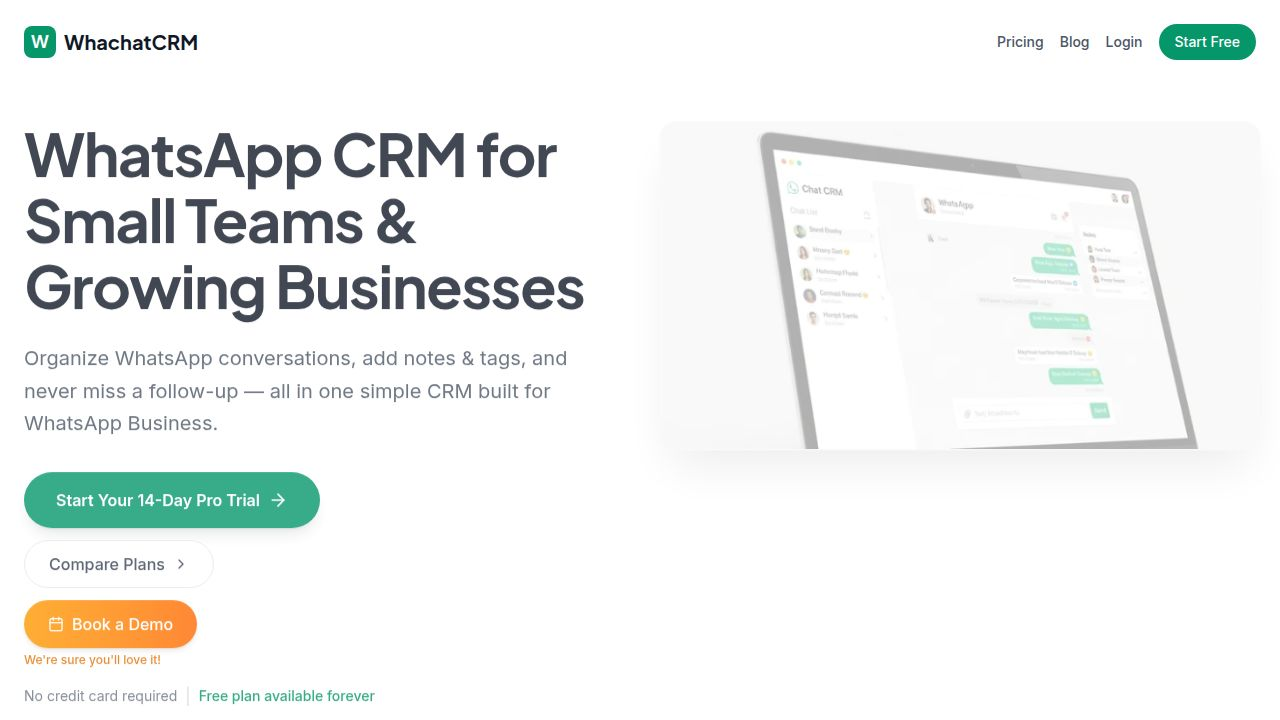
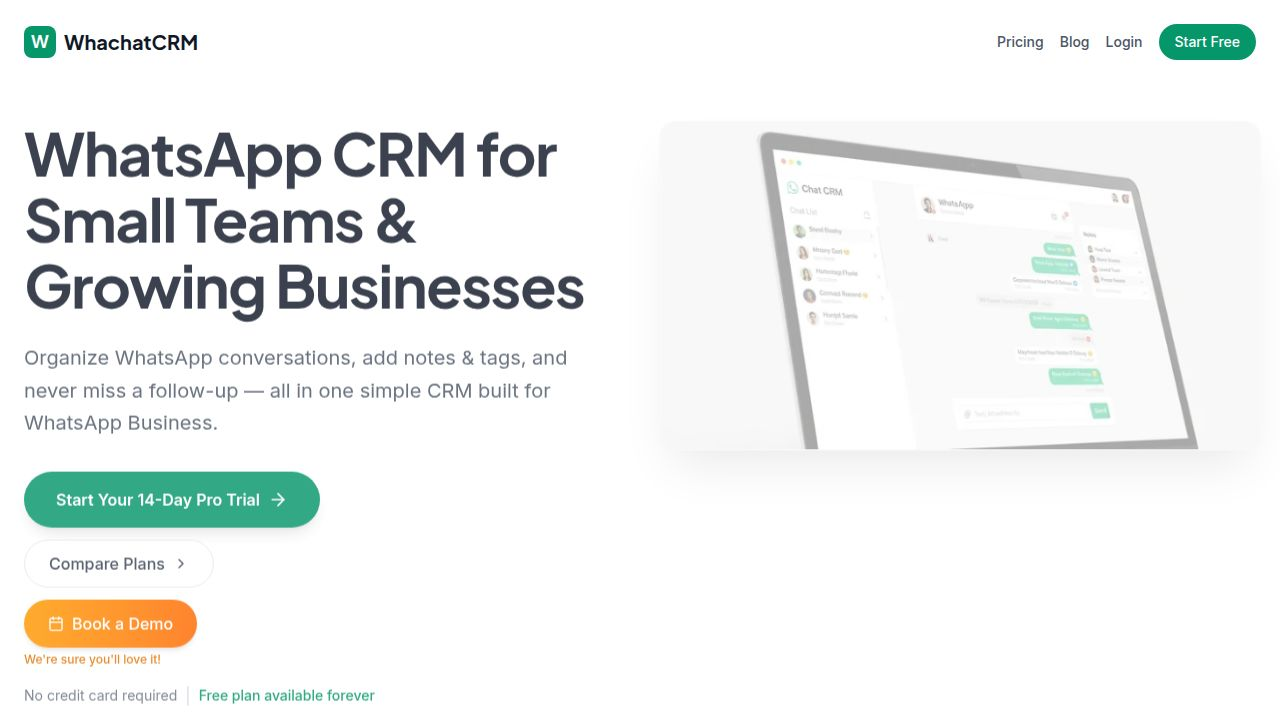
Update website pages to reflect multi-channel capabilities
Updates the home, pricing, and help center pages to highlight multi-channel support across WhatsApp, SMS, Telegram, Instagram, Facebook, and Web Chat. Includes SEO meta tag adjustments and feature list enhancements across client-side components.

Replit-Commit-Author: Agent
Replit-Commit-Session-Id: b0c210df-0aa9-4cdf-b0a9-ce0103a61da6
Replit-Commit-Checkpoint-Type: full_checkpoint
Replit-Commit-Event-Id: 7b04a395-dcc3-4f79-988b-310d60439050
Replit-Commit-Screenshot-Url: https://storage.googleapis.com/screenshot-production-us-central1/1e9f0bc4-b7c0-427b-a82e-2d37b78d433c/b0c210df-0aa9-4cdf-b0a9-ce0103a61da6/vHtLvfY
Replit-Helium-Checkpoint-Created: true

diff --git a/client/src/pages/Pricing.tsx b/client/src/pages/Pricing.tsx
@@ -13,14 +13,15 @@ const PLANS = [
     name: "Free",
     badge: "Forever Free",
     price: 0,
-    description: "Try WhachatCRM with real workflows",
+    description: "Try unified inbox with real workflows",
     cta: "Start Free",
     popular: false,
     features: [
-      "1 WhatsApp Business number",
+      "Unified inbox (all channels)",
+      "WhatsApp + Web Chat",
       "1 user",
       "50 active conversations / month",
-      "Shared inbox (read-only)",
+      "Auto channel routing",
       "Tags & internal notes",
       "Tasks & reminders",
       "Away messages (business hours)",
@@ -39,18 +40,18 @@ const PLANS = [
     popular: true,
     features: [
       "Everything in Free, plus:",
+      "All channels: WhatsApp, SMS, Telegram, Instagram, Facebook, Web Chat",
+      "TikTok lead intake",
       "Up to 3 team members",
-      "1 WhatsApp Business number",
       "500 active conversations / month",
-      "Shared team inbox",
       "Visual chatbot builder",
       "Auto-reply messages",
-      "Keyword triggers",
+      "Smart fallback routing",
       "CSV import contacts",
       "Email & push notifications",
       "3 webhook integrations",
     ],
-    note: "Best for getting started with WhatsApp sales & support",
+    note: "Best for multi-channel sales & support",
   },
   {
     id: "pro",
@@ -71,7 +72,7 @@ const PLANS = [
       "10 webhook + native integrations",
       "Priority support",
     ],
-    note: "Built for serious WhatsApp operations",
+    note: "Built for serious multi-channel operations",
   },
 ];
 
@@ -146,21 +147,25 @@ export function Pricing() {
 
         <div className="text-center mb-12">
           <h1 className="text-4xl font-display font-bold text-gray-900 mb-4">
-            Simple Pricing for WhatsApp Teams
+            One Inbox. Every Channel. Simple Pricing.
           </h1>
           <p className="text-xl text-gray-600 max-w-2xl mx-auto">
-            You bring WhatsApp. We power the CRM.
+            WhatsApp, SMS, Telegram, Instagram, Facebook, Web Chat — all in one place.
           </p>
           <p className="text-gray-500 mt-2 max-w-2xl mx-auto">
-            WhachatCRM helps you manage, organize, and follow up on WhatsApp conversations — without locking you into message fees.
+            Stop juggling apps. Respond faster, never lose a lead, and look bigger than you are.
           </p>
           
           <div className="flex flex-wrap justify-center gap-4 mt-6">
             <div className="inline-flex items-center gap-2 bg-emerald-50 border border-emerald-200 text-emerald-800 px-4 py-2 rounded-full text-sm font-medium">
               <Shield className="h-4 w-4" />
-              No Markup Guarantee
+              No Markup on Messages
             </div>
             <div className="inline-flex items-center gap-2 bg-blue-50 border border-blue-200 text-blue-800 px-4 py-2 rounded-full text-sm font-medium">
+              <MessageSquare className="h-4 w-4" />
+              7 Channels Supported
+            </div>
+            <div className="inline-flex items-center gap-2 bg-purple-50 border border-purple-200 text-purple-800 px-4 py-2 rounded-full text-sm font-medium">
               <XCircle className="h-4 w-4" />
               Cancel Anytime
             </div>
@@ -366,6 +371,25 @@ export function Pricing() {
               </AccordionContent>
             </AccordionItem>
 
+            <AccordionItem value="which-channels" className="bg-white border border-gray-200 rounded-xl px-6">
+              <AccordionTrigger className="text-left font-semibold text-gray-900 hover:no-underline" data-testid="faq-which-channels">
+                Which channels do you support?
+              </AccordionTrigger>
+              <AccordionContent className="text-gray-600">
+                <p className="mb-3">WhachatCRM supports 7 messaging channels in one unified inbox:</p>
+                <ul className="list-disc list-inside space-y-1 mb-3">
+                  <li><strong>WhatsApp:</strong> Via Twilio or Meta Business API (your choice)</li>
+                  <li><strong>SMS:</strong> Via Twilio</li>
+                  <li><strong>Telegram:</strong> Connect your bot</li>
+                  <li><strong>Instagram DM:</strong> Via Meta integration</li>
+                  <li><strong>Facebook Messenger:</strong> Via Meta integration</li>
+                  <li><strong>Web Chat:</strong> Embeddable widget for your website</li>
+                  <li><strong>TikTok:</strong> Lead intake only (capture leads from TikTok ads)</li>
+                </ul>
+                <p className="text-amber-700 font-medium">Note: SMS requires Twilio. Meta only supports WhatsApp, not SMS.</p>
+              </AccordionContent>
+            </AccordionItem>
+
             <AccordionItem value="which-provider" className="bg-white border border-gray-200 rounded-xl px-6">
               <AccordionTrigger className="text-left font-semibold text-gray-900 hover:no-underline" data-testid="faq-which-provider">
                 Which WhatsApp providers do you support?
@@ -373,8 +397,8 @@ export function Pricing() {
               <AccordionContent className="text-gray-600">
                 <p className="mb-3">WhachatCRM supports two official WhatsApp Business API providers:</p>
                 <ul className="list-disc list-inside space-y-1 mb-3">
-                  <li><strong>Twilio:</strong> Fast approval, reliable infrastructure, great for teams new to WhatsApp Business</li>
-                  <li><strong>Meta WhatsApp Business API:</strong> Direct integration with Meta, official green checkmark verification, access to native WhatsApp features</li>
+                  <li><strong>Twilio:</strong> Fast approval, reliable infrastructure, includes SMS support</li>
+                  <li><strong>Meta WhatsApp Business API:</strong> Direct integration, green checkmark verification, WhatsApp-only</li>
                 </ul>
                 <p className="mb-3">Choose the provider that best fits your needs — we guide you step-by-step during setup.</p>
                 <p className="text-amber-700 font-medium">The WhatsApp Business mobile app is not supported.</p>
@@ -432,11 +456,11 @@ export function Pricing() {
         {/* Footer CTA */}
         <div className="mt-16 bg-gray-900 rounded-2xl p-4 sm:p-8 text-center text-white overflow-hidden">
           <div className="flex justify-center mb-4">
-            <Shield className="h-10 w-10 text-brand-green" />
+            <MessageSquare className="h-10 w-10 text-brand-green" />
           </div>
-          <h2 className="text-xl sm:text-2xl font-bold mb-2">Start Free. Upgrade When WhatsApp Works for You.</h2>
+          <h2 className="text-xl sm:text-2xl font-bold mb-2">One Inbox. Every Channel. Start Free.</h2>
           <p className="text-gray-400 mb-6 max-w-lg mx-auto text-sm sm:text-base">
-            WhachatCRM uses the official WhatsApp Business API. Your data is secure and compliant with Meta's policies.
+            Stop juggling 7 apps. Manage WhatsApp, SMS, Telegram, Instagram, Facebook, and Web Chat in one place.
           </p>
           <Link href="/auth">
             <Button className="bg-brand-green hover:bg-emerald-700 text-white px-4 sm:px-8 whitespace-normal h-auto py-3" data-testid="button-start-free-footer">
@@ -448,8 +472,8 @@ export function Pricing() {
 
         {/* Legal Disclaimer */}
         <div className="mt-8 text-center text-xs text-gray-400 space-y-1">
-          <p>WhachatCRM is a CRM platform and is not affiliated with Meta or WhatsApp.</p>
-          <p>WhatsApp Business API access is provided by approved third-party providers.</p>
+          <p>WhachatCRM is a CRM platform and is not affiliated with Meta, WhatsApp, or Telegram.</p>
+          <p>Channel integrations are provided through official APIs and approved third-party providers.</p>
         </div>
       </div>
     </div>

diff --git a/client/src/pages/Welcome.tsx b/client/src/pages/Welcome.tsx
@@ -103,17 +103,17 @@ export function Welcome() {
   return (
     <div className="min-h-screen bg-white overflow-x-hidden">
       <Helmet>
-        <title>WhatsApp CRM for Small Teams | WhachatCRM</title>
-        <meta name="description" content="Simple WhatsApp CRM to manage chats, notes, tags & follow-ups. Free plan available. Paid plans start at $19/month." />
-        <meta property="og:title" content="WhatsApp CRM for Small Teams | WhachatCRM" />
-        <meta property="og:description" content="Simple WhatsApp CRM to manage chats, notes, tags & follow-ups. Free plan available. Paid plans start at $19/month." />
+        <title>Multi-Channel CRM for Small Teams | WhachatCRM</title>
+        <meta name="description" content="Unified inbox for WhatsApp, SMS, Telegram, Instagram, Facebook & Web Chat. One inbox, every channel. Free plan available." />
+        <meta property="og:title" content="Multi-Channel CRM for Small Teams | WhachatCRM" />
+        <meta property="og:description" content="Unified inbox for WhatsApp, SMS, Telegram, Instagram, Facebook & Web Chat. One inbox, every channel. Free plan available." />
         <meta property="og:image" content="https://whachatcrm.com/og-image.png" />
         <meta property="og:image:width" content="1200" />
         <meta property="og:image:height" content="627" />
         <meta name="twitter:card" content="summary_large_image" />
         <meta name="twitter:image" content="https://whachatcrm.com/og-image.png" />
-        <meta name="twitter:title" content="WhatsApp CRM for Small Teams | WhachatCRM" />
-        <meta name="twitter:description" content="Simple WhatsApp CRM to manage chats, notes, tags & follow-ups. Free plan available. Paid plans start at $19/month." />
+        <meta name="twitter:title" content="Multi-Channel CRM for Small Teams | WhachatCRM" />
+        <meta name="twitter:description" content="Unified inbox for WhatsApp, SMS, Telegram, Instagram, Facebook & Web Chat. One inbox, every channel. Free plan available." />
       </Helmet>
       <BookDemoModal isOpen={showDemoModal} onClose={() => setShowDemoModal(false)} />
       {/* Navigation */}
@@ -157,10 +157,10 @@ export function Welcome() {
         <div className="grid md:grid-cols-2 gap-8 md:gap-12 items-start">
           <div className="animate-hero-text">
             <h1 className="text-3xl md:text-5xl lg:text-6xl font-display font-bold text-gray-900 leading-[1.1] mb-4 md:mb-6">
-              WhatsApp CRM for Small Teams & Growing Businesses
+              One Inbox. Every Channel. Zero Complexity.
             </h1>
             <p className="text-lg md:text-xl text-gray-600 mb-6 md:mb-8 leading-relaxed">
-              Organize WhatsApp conversations, add notes & tags, and never miss a follow-up — all in one simple CRM built for WhatsApp Business.
+              WhatsApp, SMS, Telegram, Instagram, Facebook, Web Chat — all in one unified inbox. Stop juggling apps. Respond faster, never lose a lead.
             </p>
             
             {/* Stacked CTAs for mobile */}

diff --git a/client/src/pages/HelpCenter.tsx b/client/src/pages/HelpCenter.tsx
@@ -24,23 +24,30 @@ const HELP_ARTICLES: Article[] = [
     title: "Getting Started with WhachatCRM",
     category: "Getting Started",
     icon: BookOpen,
-    keywords: ["start", "begin", "new", "setup", "introduction"],
+    keywords: ["start", "begin", "new", "setup", "introduction", "channels", "unified inbox"],
     content: `
 # Getting Started with WhachatCRM
 
-Welcome to WhachatCRM! This guide will help you get up and running quickly.
+Welcome to WhachatCRM! This guide will help you get up and running quickly with our unified multi-channel inbox.
 
-## Step 1: Connect Your WhatsApp Provider
+## Step 1: Connect Your Channels
 
-WhachatCRM supports two official ways to connect:
-- **Meta WhatsApp Business API** (Recommended)
-- **Twilio WhatsApp API**
+WhachatCRM supports 7 messaging channels in one unified inbox:
+- **WhatsApp**: Via Twilio or Meta Business API (your choice)
+- **SMS**: Via Twilio
+- **Telegram**: Connect your bot
+- **Instagram DM**: Via Meta integration
+- **Facebook Messenger**: Via Meta integration
+- **Web Chat**: Embeddable widget for your website
+- **TikTok**: Lead intake only
 
 To connect:
-1. Go to **Settings** > **WhatsApp Connection**
-2. Choose your preferred provider
-3. Follow the connection wizard instructions
-4. Click **Save & Test Connection**
+1. Go to **Settings** > **Communication Channels**
+2. Click **Connect** on the channel you want to add
+3. Follow the setup wizard instructions
+4. Toggle the channel on when ready
+
+**Note:** SMS requires Twilio. Meta only supports WhatsApp, not SMS.
 
 ## Step 2: Import or Add Contacts
 
@@ -51,7 +58,8 @@ You can add contacts manually or import them:
 ## Step 3: Start Messaging
 
 Once connected, you can:
-- Send and receive WhatsApp messages
+- Send and receive messages from all channels in one inbox
+- System automatically routes replies to the right channel
 - Add notes and tags to conversations
 - Set follow-up reminders
 - Track deals through pipeline stages
@@ -61,6 +69,7 @@ Once connected, you can:
 Save time with automated features:
 - **Away Messages**: Auto-reply outside business hours
 - **Auto-Responders**: Reply instantly to new messages
+- **Smart Fallback**: Auto-route to backup channel if primary fails
 - **Drip Sequences**: Send scheduled message series (Pro plan)
 - **Workflows**: Automate tagging and assignments (Pro plan)
     `

diff --git a/client/src/pages/CrmForWhatsappBusiness.tsx b/client/src/pages/CrmForWhatsappBusiness.tsx
@@ -10,9 +10,9 @@ export function CrmForWhatsappBusiness() {
   return (
     <div className="min-h-screen bg-white">
       <Helmet>
-        <title>CRM for WhatsApp Business – Manage Leads & Chats | WhachatCRM</title>
-        <meta name="description" content="The best CRM for WhatsApp Business. Manage leads, add notes, set follow-up reminders, and close more deals. Free plan available. Start in 2 minutes." />
-        <meta name="keywords" content="CRM for WhatsApp Business, WhatsApp Business CRM, WhatsApp lead management, WhatsApp business tool, small business CRM" />
+        <title>Multi-Channel CRM for WhatsApp Business | WhachatCRM</title>
+        <meta name="description" content="Unified inbox for WhatsApp, SMS, Telegram, Instagram, Facebook & Web Chat. Manage all conversations in one place. Free plan available." />
+        <meta name="keywords" content="CRM for WhatsApp Business, multi-channel CRM, unified inbox, WhatsApp lead management, small business CRM, SMS, Telegram" />
         <link rel="canonical" href="https://whachatcrm.com/crm-for-whatsapp-business" />
       </Helmet>
 
@@ -46,13 +46,13 @@ export function CrmForWhatsappBusiness() {
           transition={{ duration: 0.6 }}
         >
           <span className="inline-block bg-emerald-100 text-brand-green text-sm font-medium px-4 py-1 rounded-full mb-6">
-            For WhatsApp Business Users
+            7 Channels, One Inbox
           </span>
           <h1 className="text-3xl md:text-5xl font-display font-bold text-gray-900 leading-tight mb-6">
-            The CRM Built for WhatsApp Business
+            Multi-Channel CRM for Small Business
           </h1>
           <p className="text-lg md:text-xl text-gray-600 mb-8 max-w-2xl mx-auto">
-            Turn your WhatsApp Business chats into organized leads. Add notes, set reminders, and never let a customer slip through the cracks.
+            WhatsApp, SMS, Telegram, Instagram, Facebook, Web Chat — all in one unified inbox. Stop juggling apps and never lose a lead.
           </p>
           
           <div className="flex flex-col sm:flex-row gap-3 justify-center mb-4">
